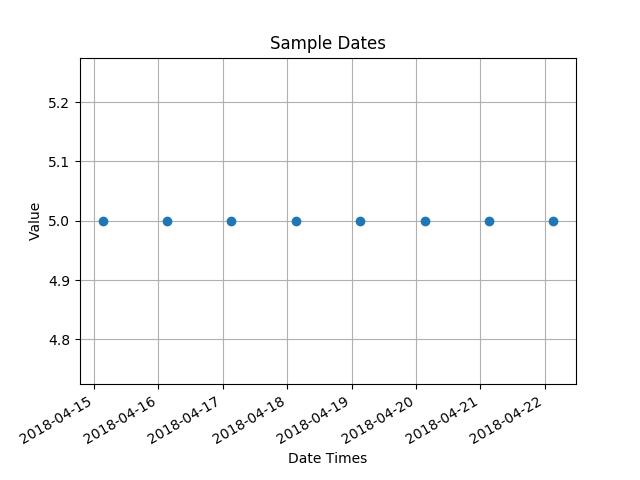
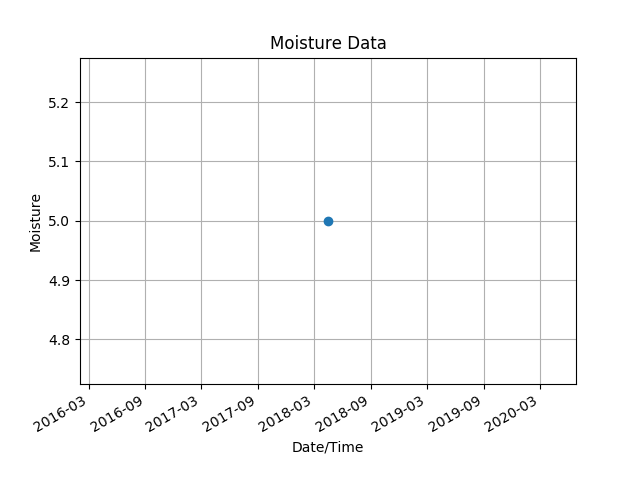
added functionality to decide range of dates

diff --git a/website/templates/th_sensor.html b/website/templates/th_sensor.html
@@ -15,18 +15,18 @@
 <table>
 	<tr>
 		<td colspan="2">
-			<h2>Temperature Measurment</h2>
+			<h2>Temperature Measurement</h2>
 		</td>
 	</tr>
 	<tr>
 		<td class="td1">
 			<div class="change-pos"> 
-				<h3>Starting Scale Value</h3>
-				<input id="t-start" type="text" name="start" value="0">
+				<h3>Start Date</h3>
+				<input id="t-start" type="date" name="start" value="0">
 			</div>
 			<div class="change-pos"> 
-				<h3>Ending Scale Value</h3>
-				<input id="t-end" type="text" name="end" value="10">
+				<h3>End Date</h3>
+				<input id="t-end" type="date" name="end" value="10">
 			</div>
 			<div>
 				</br>
@@ -41,18 +41,18 @@
 	</tr>
 	<tr>
 		<td colspan="2">
-			<h2>Humidity Measurment</h2>
+			<h2>Humidity Measurement</h2>
 		</td>
 	</tr>
 	<tr>
 		<td class="td1">
 			<div> 
-				<h3>Starting Scale Value</h3>
-				<input id="h-start" type="text" name="start">
+				<h3>Start Date</h3>
+				<input id="h-start" type="date" name="start">
 			</div>
 			<div> 
-				<h3>Ending Scale Value</h3>
-				<input id="h-end" type="text" name="end">
+				<h3>End Date</h3>
+				<input id="h-end" type="date" name="end">
 			</div>
 			<div>
 				</br>

diff --git a/website/templates/moisture.html b/website/templates/moisture.html
@@ -15,12 +15,12 @@
 	<tr>
 		<td class="td1">
 			<div class="change-pos"> 
-				<h3>Starting Scale Value</h3>
-				<input id="start" type="text" name="start-v" value="0">
+				<h3>Start Date</h3>
+				<input id="start" type="datetime-local" name="start-v">
 			</div>
 			<div class="change-pos"> 
-				<h3>Ending Scale Value</h3>
-				<input id="end" type="text" name="end-v" value="10">
+				<h3>End Date</h3>
+				<input id="end" type="datetime-local" name="end-v">
 			</div>
 			<div id="data-sect">
 				<br/>
@@ -46,6 +46,8 @@
 	          $('#generate').bind('click', function() {
 		     start = $('#start').val();
 		     end = $('#end').val();
+	             alert(start);
+		     alert(end);
 	             $.ajax({
 			      url: "/make_graph/m/" + start + "/" + end,
 			      type: "get",

diff --git a/website/templates/light_sensor.html b/website/templates/light_sensor.html
@@ -47,12 +47,12 @@
 	<tr>
 		<td class="td1">
 			<div> 
-				<h3>Starting Scale Value</h3>
-				<input id="u-start" type="text" name="start" value="0">
+				<h3>Start Date</h3>
+				<input id="u-start" type="date" name="start" value="">
 			</div>
 			<div> 
-				<h3>Ending Scale Value</h3>
-				<input id="u-end" type="text" name="end" value="10">
+				<h3>End Date</h3>
+				<input id="u-end" type="date" name="end" value="">
 			</div>
 			<div>
 				</br>
@@ -82,6 +82,9 @@
 				start = $("#" + type + "-start").val();
 				end = $("#" + type + "-end").val();
 				url = "/make_graph/" + type + "/" + start + "/" + end;
+				alert("hi");
+				alert(end);
+				
 				$.ajax({
 					url: url,
 					type: "get",

diff --git a/website/website.py b/website/website.py
@@ -4,9 +4,10 @@ import json
 import urllib.request
 import sqlite3
 import matplotlib.pyplot as plt
+import matplotlib.dates as dts
 import numpy as np
 import pymysql
-import datetime
+from datetime import datetime
 
 app = Flask(__name__)
 
@@ -135,56 +136,64 @@ def make_graph(which, start, end):
          not rendered as full page, but used with AJAX in order to update page
          dynamically
     '''
-
+    start = start.replace('T', ' ')
+    end = end.replace('T', ' ')
+    start = datetime.strptime(start, "%Y-%m-%d %H:%M").strftime("%m-%d-%y %H:%M:%S")
+    end = datetime.strptime(end, "%Y-%m-%d %H:%M").strftime("%m-%d-%y %H:%M:%S")
     # uses which in order to create custom select sql query, as well as plot labels
     if which == 't':
         name = "Temperature Data"
         ylabel = "Temperature"
-        sql = "SELECT Celsius FROM Temperature WHERE rowid BETWEEN " + start + " AND " + end
+        sql = "SELECT Celsius, Date FROM Temperature WHERE rowid BETWEEN " + start + " AND " + end
     elif which == 'h':
         name = "Humidity Data"
         ylabel = "Humidity"
-        sql = "SELECT Humidity FROM Humidity WHERE rowid BETWEEN " + start + " AND " + end 
+        sql = "SELECT Humidity, Date FROM Humidity WHERE rowid BETWEEN " + start + " AND " + end 
     elif which == 'm':
         name = "Moisture Data"
         ylabel = "Moisture"
-        sql = "SELECT Moisture FROM Moisture WHERE rowid BETWEEN " + start + " AND " + end
+        sql = "SELECT Moisture, Date FROM Moisture WHERE Date BETWEEN '" + start + "' AND '" + end + "'"
     elif which == 'n':
         name = "Light Intensity Data"
         ylabel = "Light Intensity"
-        sql = "SELECT Light FROM Light WHERE rowid BETWEEN " + start + " AND " + end
+        sql = "SELECT Light, Date FROM Light WHERE rowid BETWEEN " + start + " AND " + end
     else:
         name = "UV Index"
         ylabel = "UV Index"
-        sql = "SELECT UVIndex FROM UV WHERE rowid BETWEEN " + start + " AND " + end
+        sql = "SELECT UVIndex, Date FROM UV WHERE rowid BETWEEN " + start + " AND " + end
 
-    # connects to database and retrieves data (put in rows)
+    print(sql)
     db = sqlite3.connect("/home/pi/project_green/Database/GreenhouseSensors")
     c = db.cursor()
-    
+        
     c.execute(sql)
     rows = c.fetchall()
-    
+
     c.close()
     db.close()
-    
-    # uses numpy to create plot data arrays (start and end parameters tell range of ids)
-    # data is created derictly from rows
-    ids = np.arange(int(start), int(end) + 1)
-    data = np.array(rows)
 
-    
-    # creates plot
+    data,str_dates = zip(*rows)
+    print(rows)
+    dates = [datetime.strptime(date, "%m-%d-%y %H:%M:%S") for date in str_dates]
+
+    mat_dates = dts.date2num(dates)
+
+    for date in dates:
+        print(date)
+
     fig, ax = plt.subplots()
-    ax.xaxis.set_ticks(np.arange(min(ids), max(ids) + 1, 1.0))
-    ax.plot(ids, data)
 
-    ax.set(xlabel='ID', ylabel=ylabel, title=name)
+    fig.autofmt_xdate(bottom=0.2, rotation=30, ha='right')
+
+    ax.set(xlabel='Date/Time', ylabel=ylabel, title=name)
     ax.grid()
 
-    url = "images/graphs/graph.png"
-    fig.savefig("static/" + url)
+    ax.plot_date(mat_dates, data)
 
+
+
+    url = "images/graphs/dates.png"
+    fig.savefig("static/" + url)
     return render_template('graph.html', url = url)
 
 

diff --git a/website/sql_test.py b/website/sql_test.py
@@ -1,5 +1,5 @@
 import sqlite3
-from datetime import datetime
+from datetime import datetime 
 import matplotlib.pyplot as plt
 import matplotlib.dates as dts
 import numpy as np
@@ -34,7 +34,6 @@ ax.set(xlabel='Date Times', ylabel="Value", title="Sample Dates")
 ax.grid()
 
 ax.plot_date(mat_dates, data)
-
 
 
 url = "images/graphs/dates.png"
